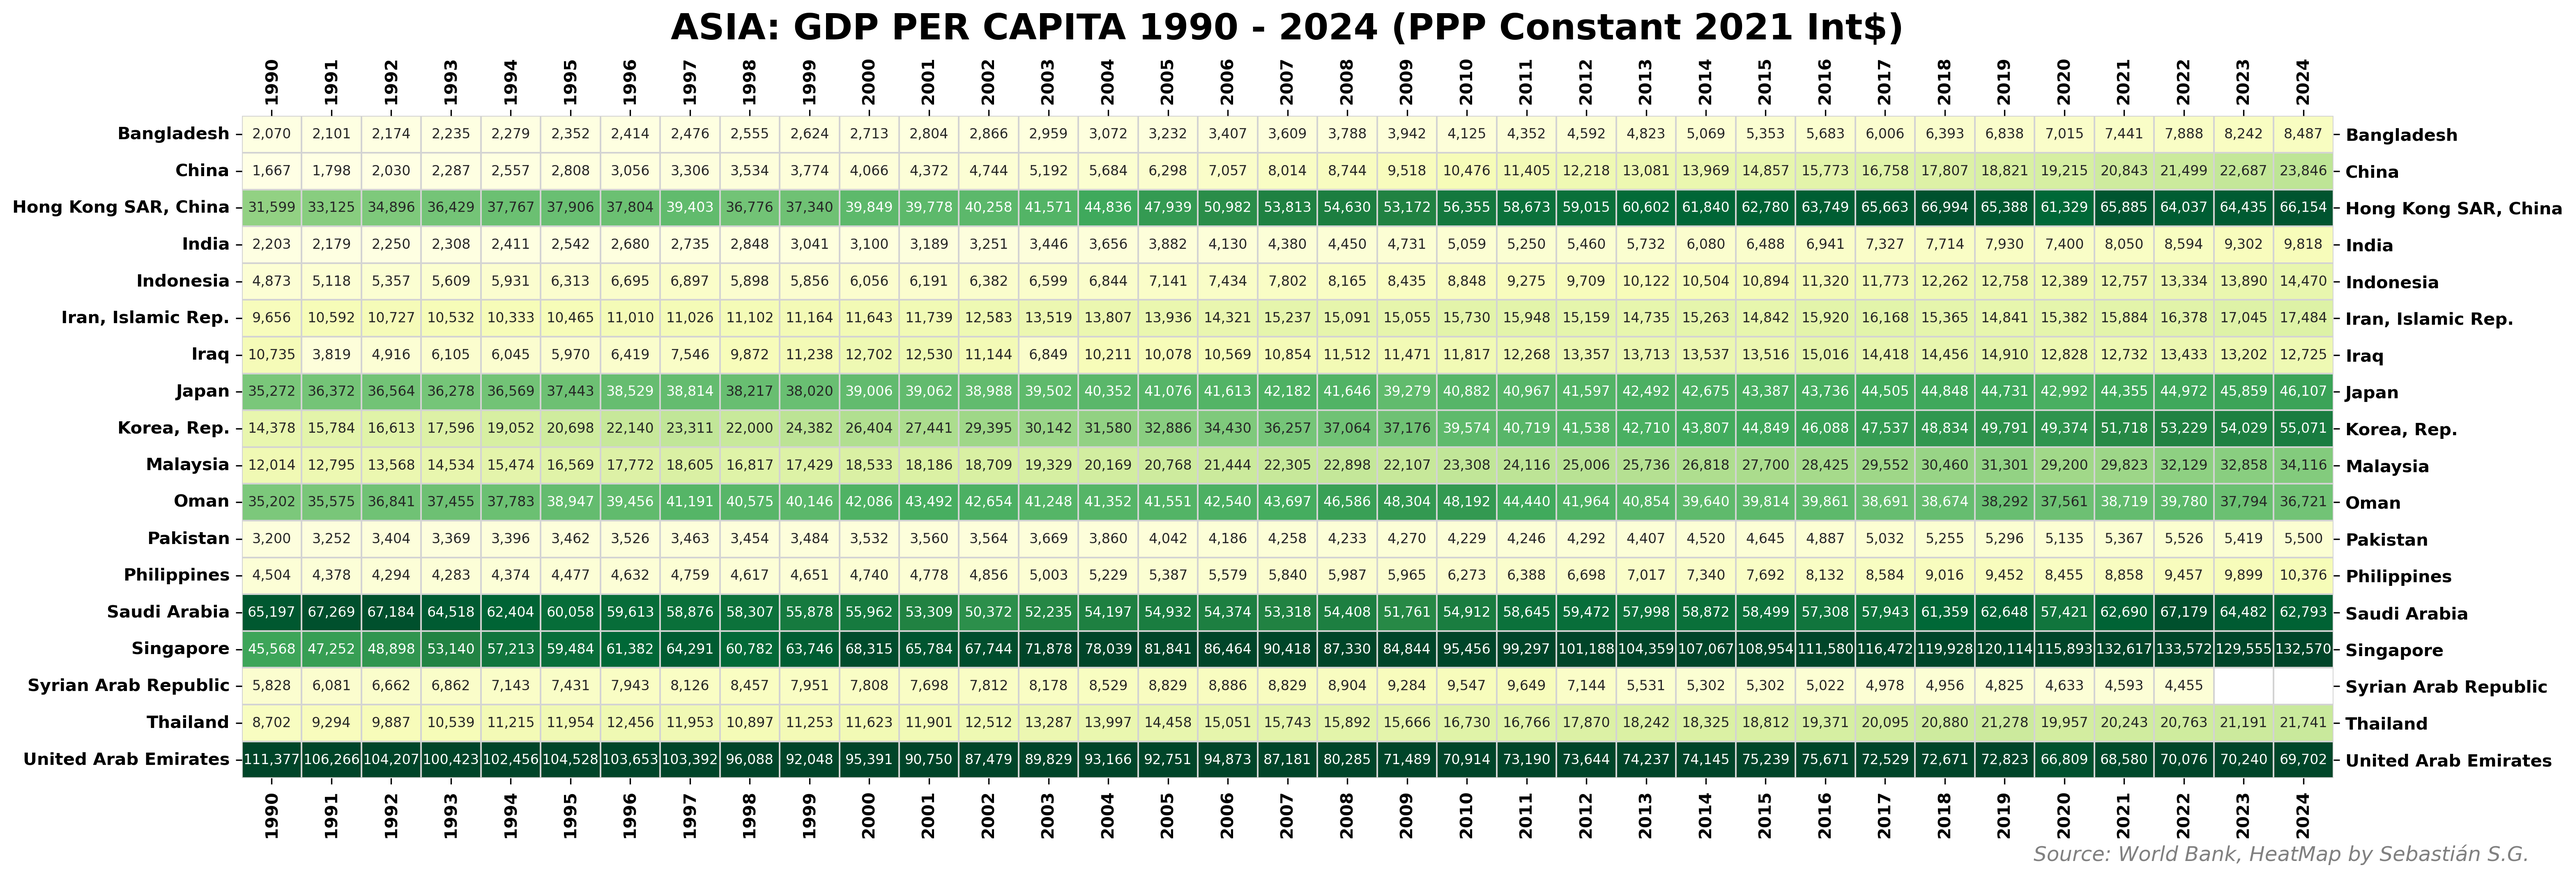
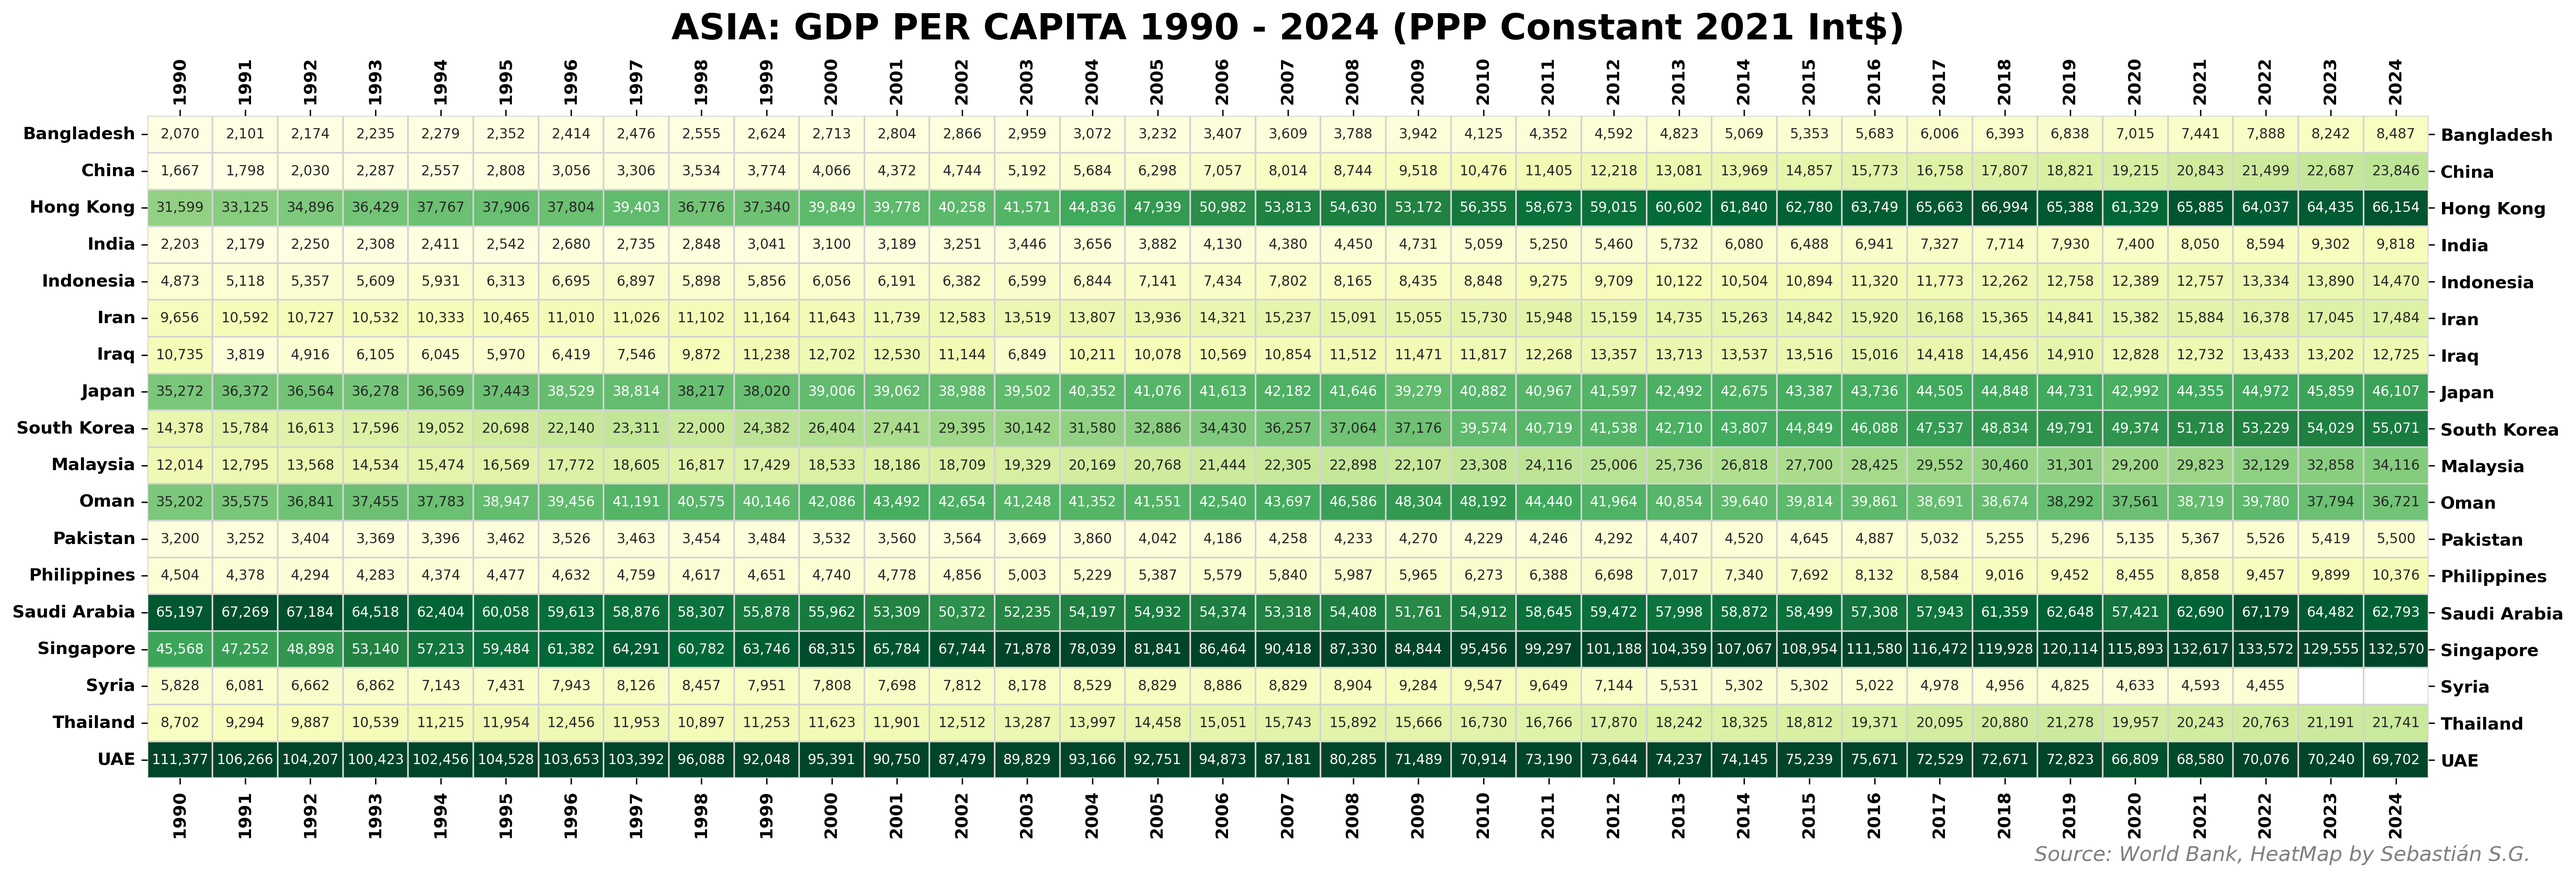
17th commit: Small modification to Asia GPD (PPP) Per Capita file, and its corresponding HeatMap.

Changed region(s): [[0.0, 0.0618, 0.9954, 0.9579]]

diff --git a/src/asia_gpd_pc_ppp_90_24.py b/src/asia_gpd_pc_ppp_90_24.py
@@ -40,6 +40,18 @@ data_matrix = data_matrix.apply(pd.to_numeric, errors='coerce')
 # Sort countries alphabetically
 data_matrix = data_matrix.sort_index()
 
+# --- Friendly display names for heatmap ---
+name_map = {
+    "Hong Kong SAR, China": "Hong Kong",
+    "Iran, Islamic Rep.": "Iran",
+    "Korea, Rep.": "South Korea",
+    "Syrian Arab Republic": "Syria",
+    "United Arab Emirates": "UAE"
+}
+
+# Rename index for display only
+data_matrix.rename(index=name_map, inplace=True)
+
 # HEATMAP
 fig, ax = plt.subplots(figsize=(21, 7))
 sns.heatmap(
